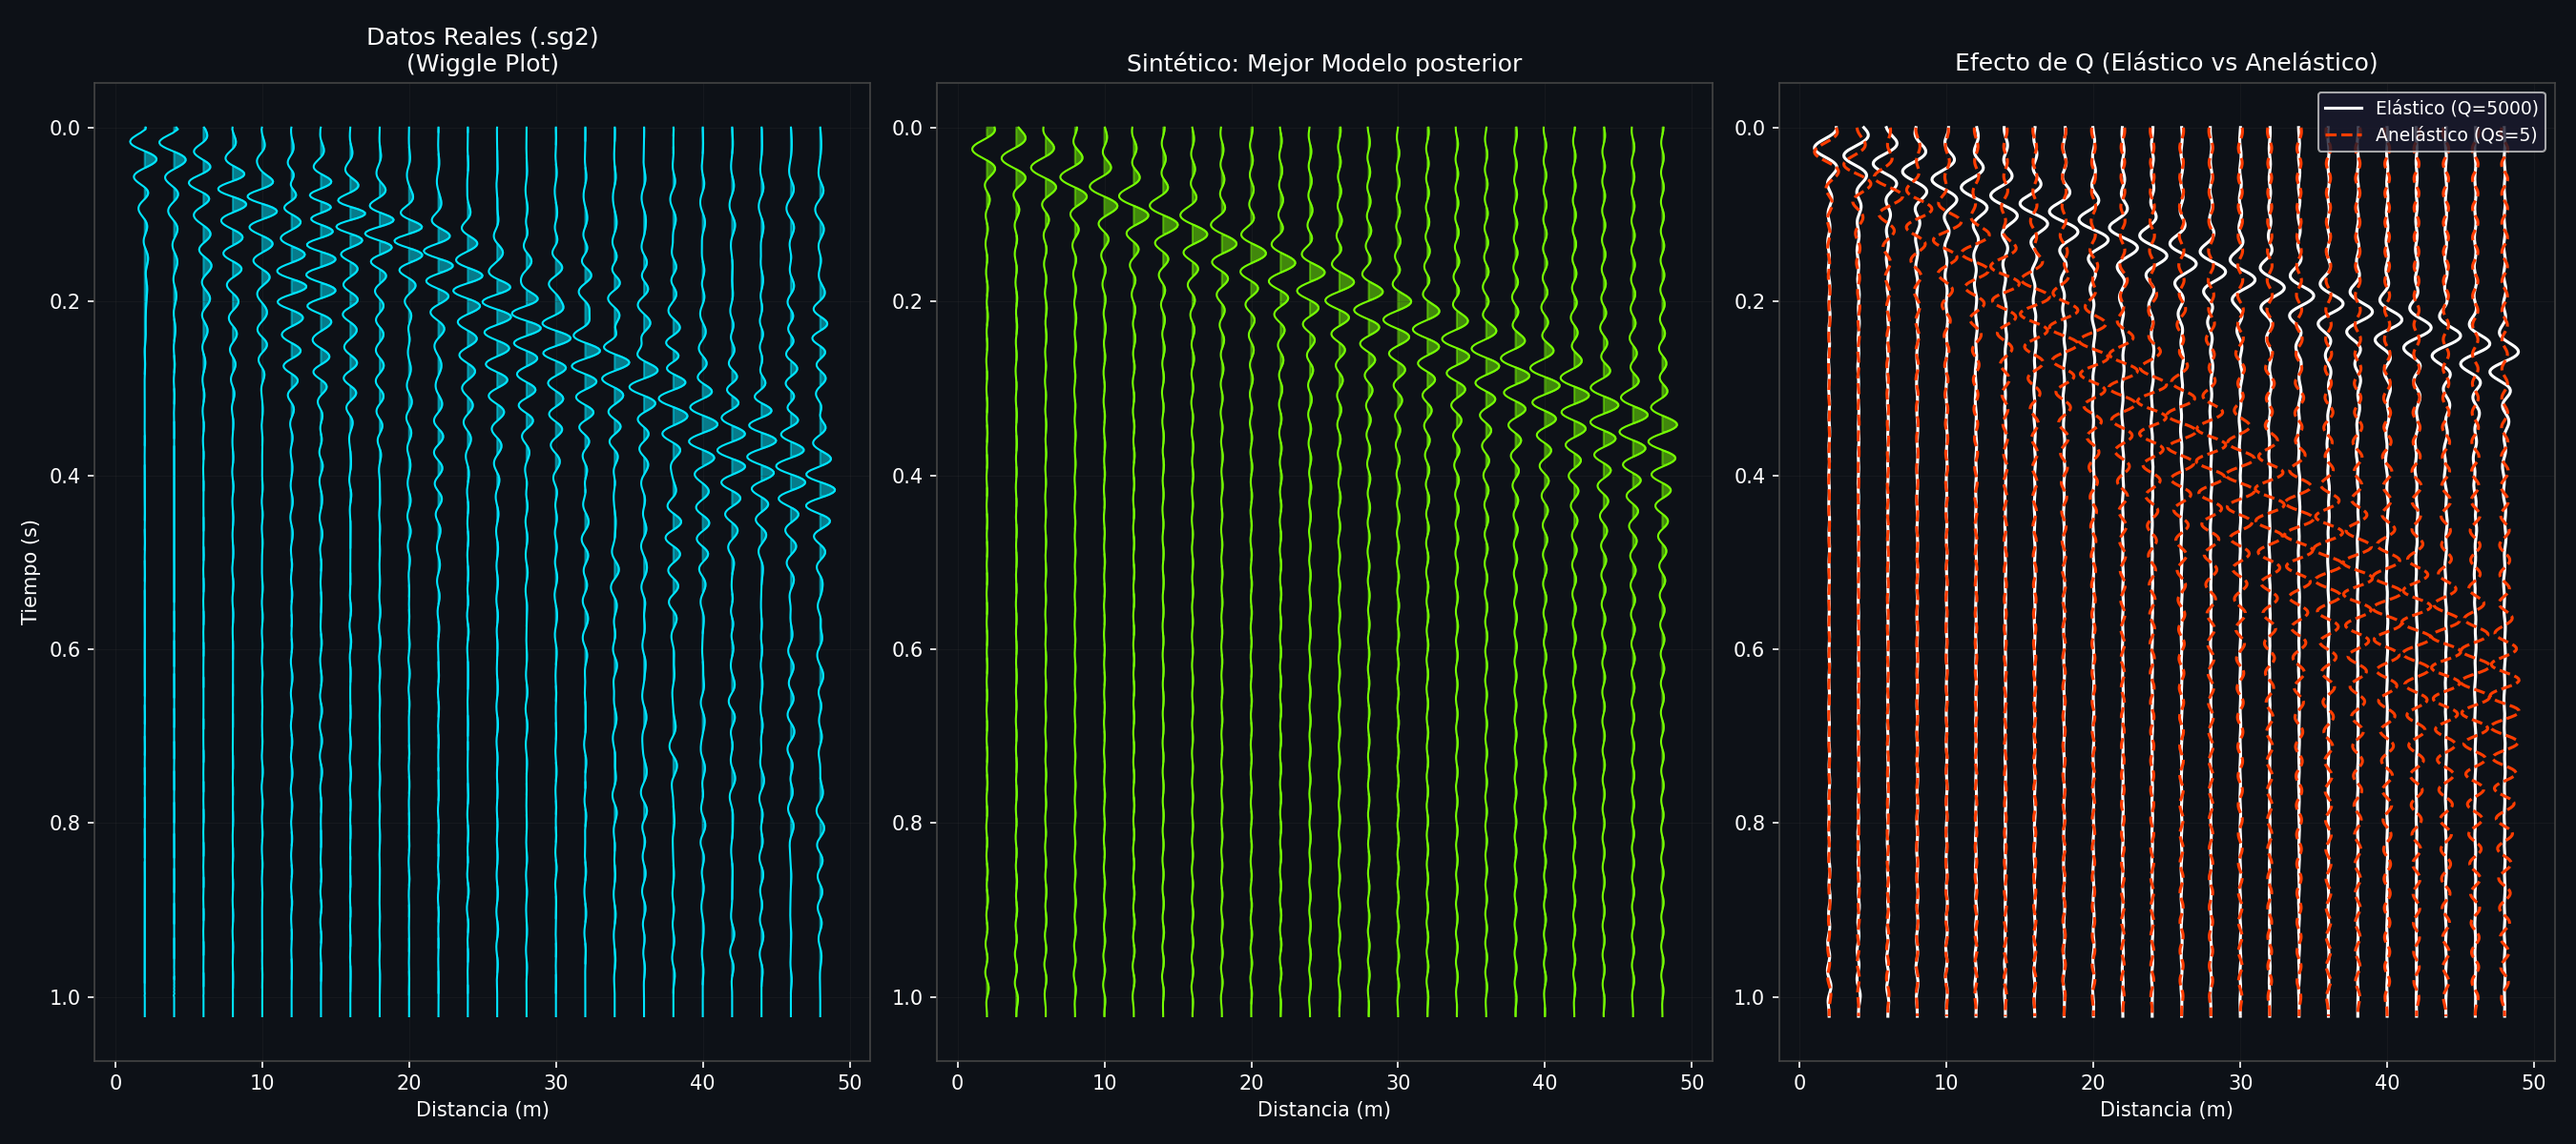
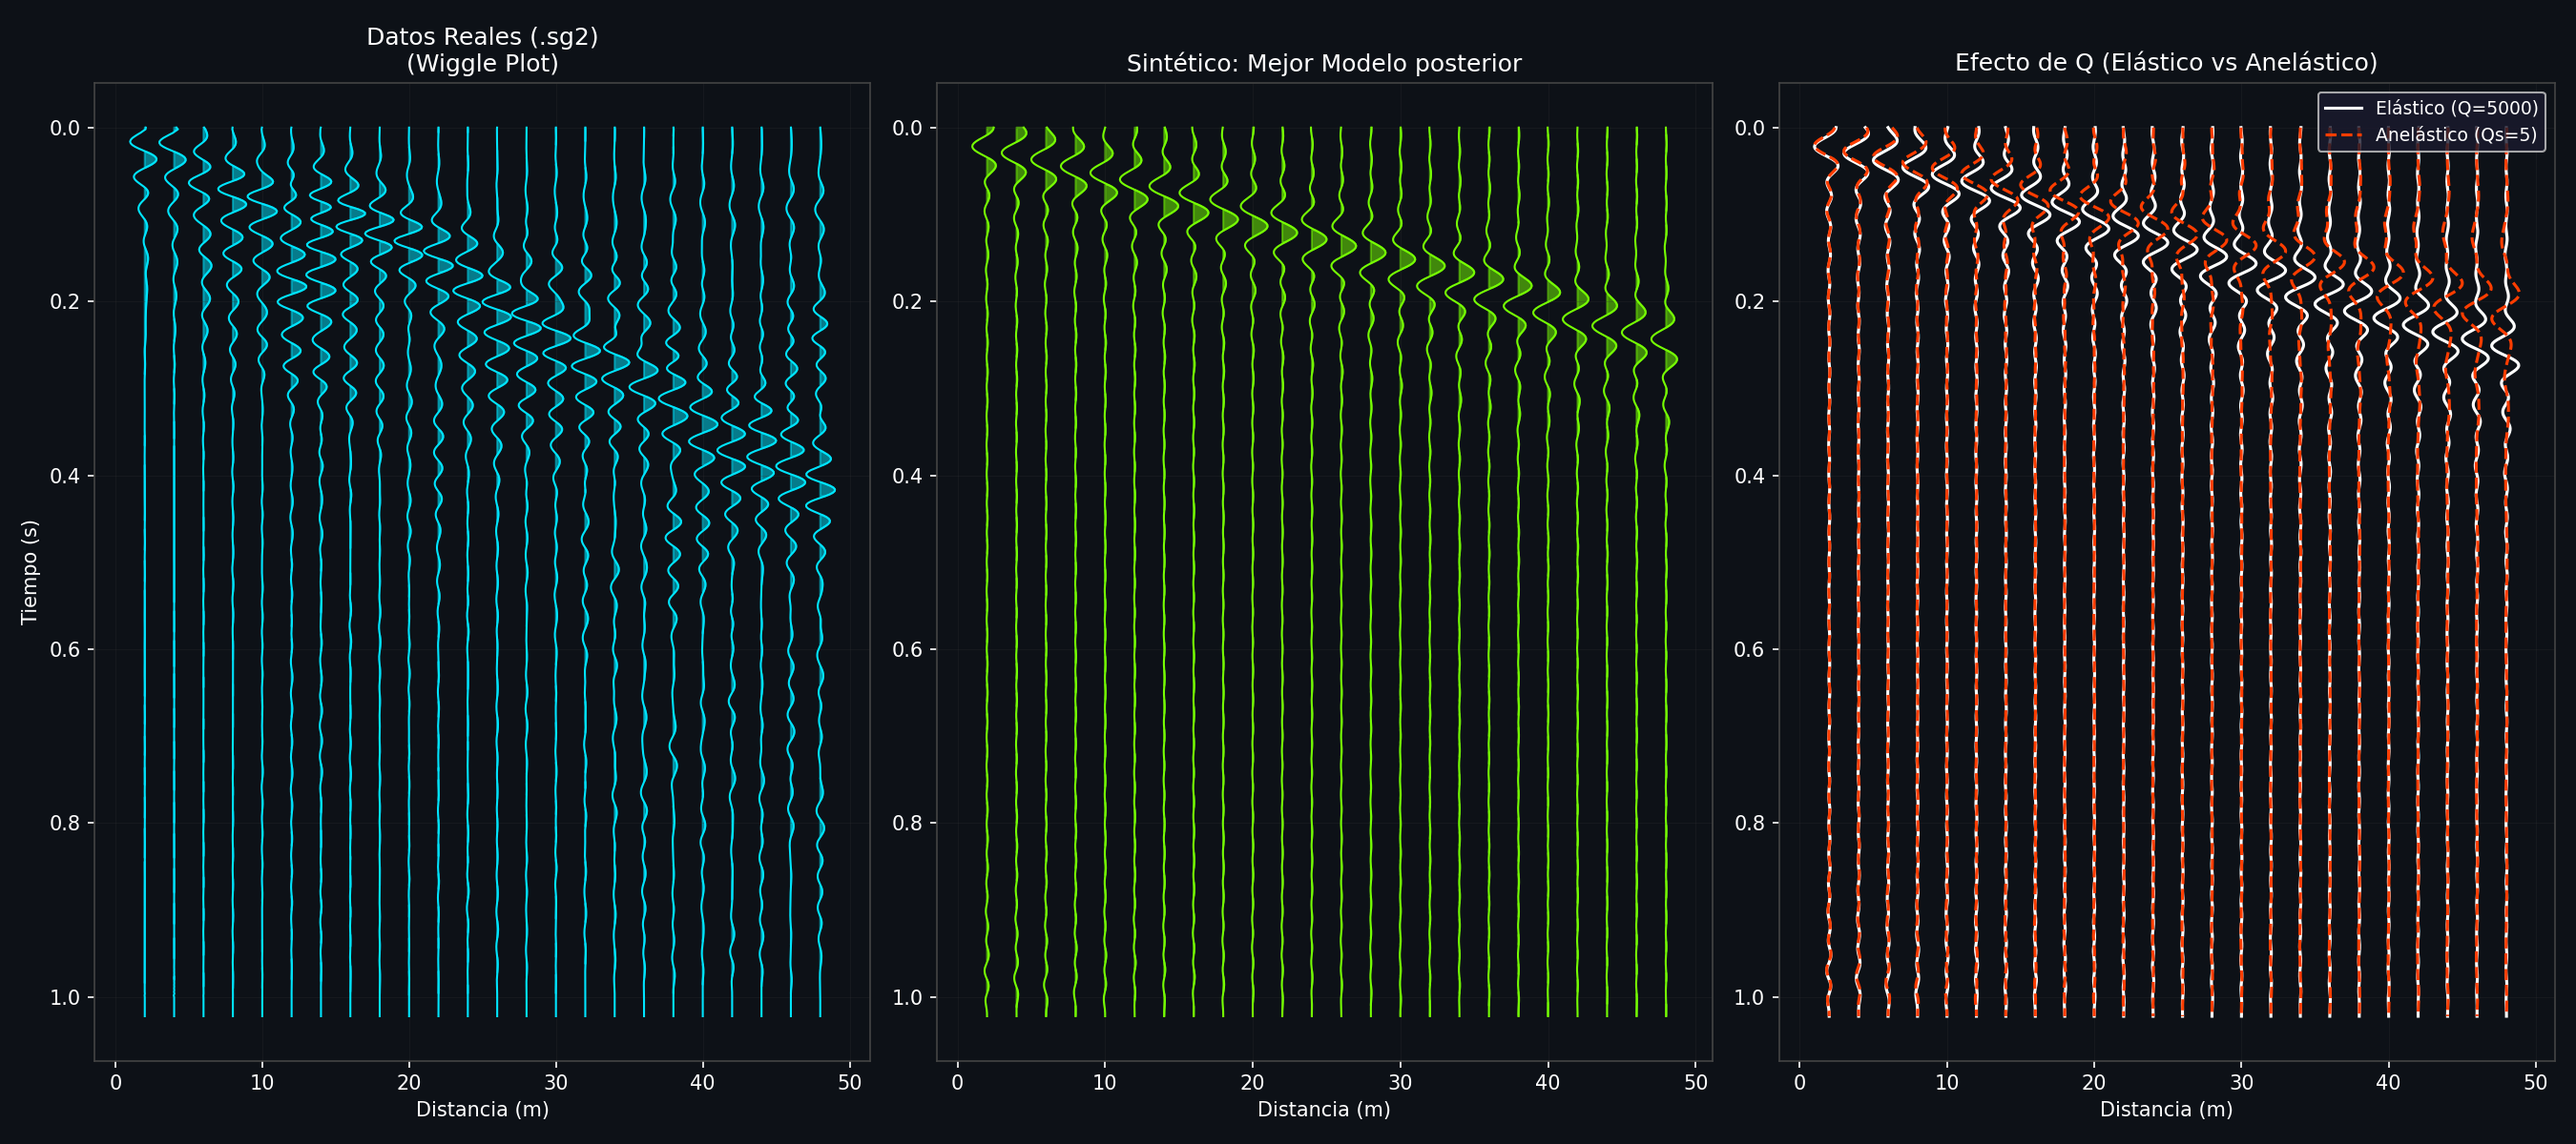
Últimos cambios

Changed region(s): [[0.6844, 0.0925, 0.9956, 0.8942], [0.3733, 0.0925, 0.6533, 0.8942], [0.5911, 0.925, 0.6222, 0.9558]]

diff --git a/main_wavefield.py b/main_wavefield.py
@@ -17,10 +17,12 @@ from pathos import multiprocessing as mp, pools as pp
 
 sys.path.insert(0, os.path.dirname(os.path.abspath(__file__)))
 
-# Parámetros de procesamiento (1 a 30 Hz)
+# Parámetros de procesamiento
 DX = 2.0  # metros
 F_MIN = 0.1
 F_MAX = 30.0
+DT = 0.002  # paso de tiempo en segundos
+N_SAMPLES = 8192  # 8192 muestras * 0.002s = 16.38s (permite resolver f < 0.1 Hz)
 
 def cps_forward_wavefield(model):
     """
@@ -49,12 +51,12 @@ def cps_forward_wavefield(model):
             for i in range(nLayer):
                 f.write(f"{h_full[i]:.4f} {vp[i]:.4f} {vs[i]:.4f} {rho[i]:.4f} {qp[i]:.1f} {qs[i]:.1f} 0 0 1 1\n")
         
-        # Archivo de distancias para 24 geofonos. 512 muestras a 0.002s (1.024s)
+        # Archivo de distancias para 24 geofonos.
         dfile = os.path.join(tmpdir, "dfile")
         with open(dfile, "w") as f:
             for i in range(1, 25):
                 dist = (i * DX) / 1000.0
-                f.write(f"{dist} 0.002 512 0.0 0.0\n")
+                f.write(f"{dist} {DT} {N_SAMPLES} 0.0 0.0\n")
         
         # CPS binaries (Modal summation for Rayleigh waves)
         subprocess.run([os.path.join(CPS_BIN, "sprep96"), "-M", "model.mod", "-d", "dfile", "-R", "-FMIN", str(F_MIN), "-FMAX", str(F_MAX)], cwd=tmpdir, stdout=subprocess.DEVNULL, stderr=subprocess.DEVNULL)
@@ -73,7 +75,7 @@ def cps_forward_wavefield(model):
         # Si por alguna razon falla la generacion o no hay ondas
         if not z_files or len(z_files) != 24:
             # Random large values to prevent variance=0 causing NaN in PCA
-            return np.random.rand(24 * 512) * 1e9
+            return np.random.rand(24 * N_SAMPLES) * 1e9
             
         traces = []
         for zf in z_files:
@@ -83,11 +85,11 @@ def cps_forward_wavefield(model):
                 tr.filter("bandpass", freqmin=F_MIN, freqmax=F_MAX, corners=4, zerophase=True)
             except Exception:
                 pass
-            # Aseguramos que tengan 512 puntos
+            # Aseguramos que tengan N_SAMPLES puntos
             d = tr.data
             d = np.nan_to_num(d, nan=0.0)
-            if len(d) > 512: d = d[:512]
-            elif len(d) < 512: d = np.pad(d, (0, 512 - len(d)))
+            if len(d) > N_SAMPLES: d = d[:N_SAMPLES]
+            elif len(d) < N_SAMPLES: d = np.pad(d, (0, N_SAMPLES - len(d)))
             # Normalizar la traza para comparar forma de onda
             max_val = np.max(np.abs(d))
             if max_val > 0: d = d / max_val
@@ -97,8 +99,8 @@ def cps_forward_wavefield(model):
 
 def procesar_campo_real(ruta_archivos):
     """
-    Lee los sg2, hace downsampling a 500 Hz (dt=0.002) y recorta a 512 muestras.
-    Retorna vector aplanado de 24x512.
+    Lee los sg2, hace downsampling y recorta a N_SAMPLES muestras.
+    Retorna vector aplanado de 24 x N_SAMPLES.
     """
     archivos = sorted(glob.glob(ruta_archivos))
     if not archivos:
@@ -107,13 +109,13 @@ def procesar_campo_real(ruta_archivos):
     # Tomaremos el primer archivo para el ejemplo
     st = read(archivos[0])
     st.filter("bandpass", freqmin=F_MIN, freqmax=F_MAX, corners=4, zerophase=True)
-    st.resample(500.0) # dt = 0.002
+    st.resample(1.0 / DT)
     
     traces = []
     for tr in st[:24]:
         d = tr.data
-        if len(d) > 512: d = d[:512]
-        elif len(d) < 512: d = np.pad(d, (0, 512 - len(d)))
+        if len(d) > N_SAMPLES: d = d[:N_SAMPLES]
+        elif len(d) < N_SAMPLES: d = np.pad(d, (0, N_SAMPLES - len(d)))
         
         # Mute antes de la llegada de onda? Para simpleza solo normalizamos
         max_val = np.max(np.abs(d))
@@ -169,7 +171,7 @@ def ejecutar_inversion_wavefield():
                   "DataUnits": "Amplitude", "DataName": "Wavefield", "DataAxis": "Time [s]"}
 
     # Time vector (solo referencial)
-    Timing = np.linspace(0, 1.024, 512 * 24)
+    Timing = np.linspace(0, N_SAMPLES * DT, N_SAMPLES * 24)
 
     print("[ETAPA 2] Configurando BEL1D MODELSET...")
     ModelSet = BEL1D.MODELSET(prior=ListPrior, cond=cond, method="Wavefield", 
@@ -190,7 +192,7 @@ def ejecutar_inversion_wavefield():
     
     # RMSE calculations
     # Error: RMSE between real Dataset and synthetic
-    # sampDC has shape (N_MODELS, 24*512)
+    # sampDC has shape (N_MODELS, 24*N_SAMPLES)
     rmse = np.sqrt(np.nanmean(((Dataset - sampDC)) ** 2, axis=1))
     finite_mask = np.isfinite(rmse)
     rmse_ok = rmse[finite_mask]
@@ -205,8 +207,8 @@ def ejecutar_inversion_wavefield():
     
     idx_mejor = np.argmin(rmse_top)
     mejor_modelo = samp_top[idx_mejor]
-    mejor_forward = sampDC_top[idx_mejor].reshape(24, 512)
-    datos_reales = Dataset.reshape(24, 512)
+    mejor_forward = sampDC_top[idx_mejor].reshape(24, N_SAMPLES)
+    datos_reales = Dataset.reshape(24, N_SAMPLES)
     
     print(f"[INFO] RMSE Mejor modelo: {rmse_top[idx_mejor]:.4f}")
     
@@ -227,7 +229,7 @@ def ejecutar_inversion_wavefield():
     for ax in axes: ax.set_facecolor("#0d1117")
     
     dist_grid = np.arange(1, 25) * DX
-    time_grid = np.arange(512) * 0.002
+    time_grid = np.arange(N_SAMPLES) * DT
     
     # a) Real
     ax = axes[0]
@@ -258,8 +260,8 @@ def ejecutar_inversion_wavefield():
     for i in range(N_LAYER-1):
         model_anelastic[5*N_LAYER-1 + i] = 5  # Qs bajo
         
-    fwd_el = cps_forward_wavefield(model_elastic).reshape(24, 512)
-    fwd_anel = cps_forward_wavefield(model_anelastic).reshape(24, 512)
+    fwd_el = cps_forward_wavefield(model_elastic).reshape(24, N_SAMPLES)
+    fwd_anel = cps_forward_wavefield(model_anelastic).reshape(24, N_SAMPLES)
     
     ax = axes[2]
     for i in range(24):
